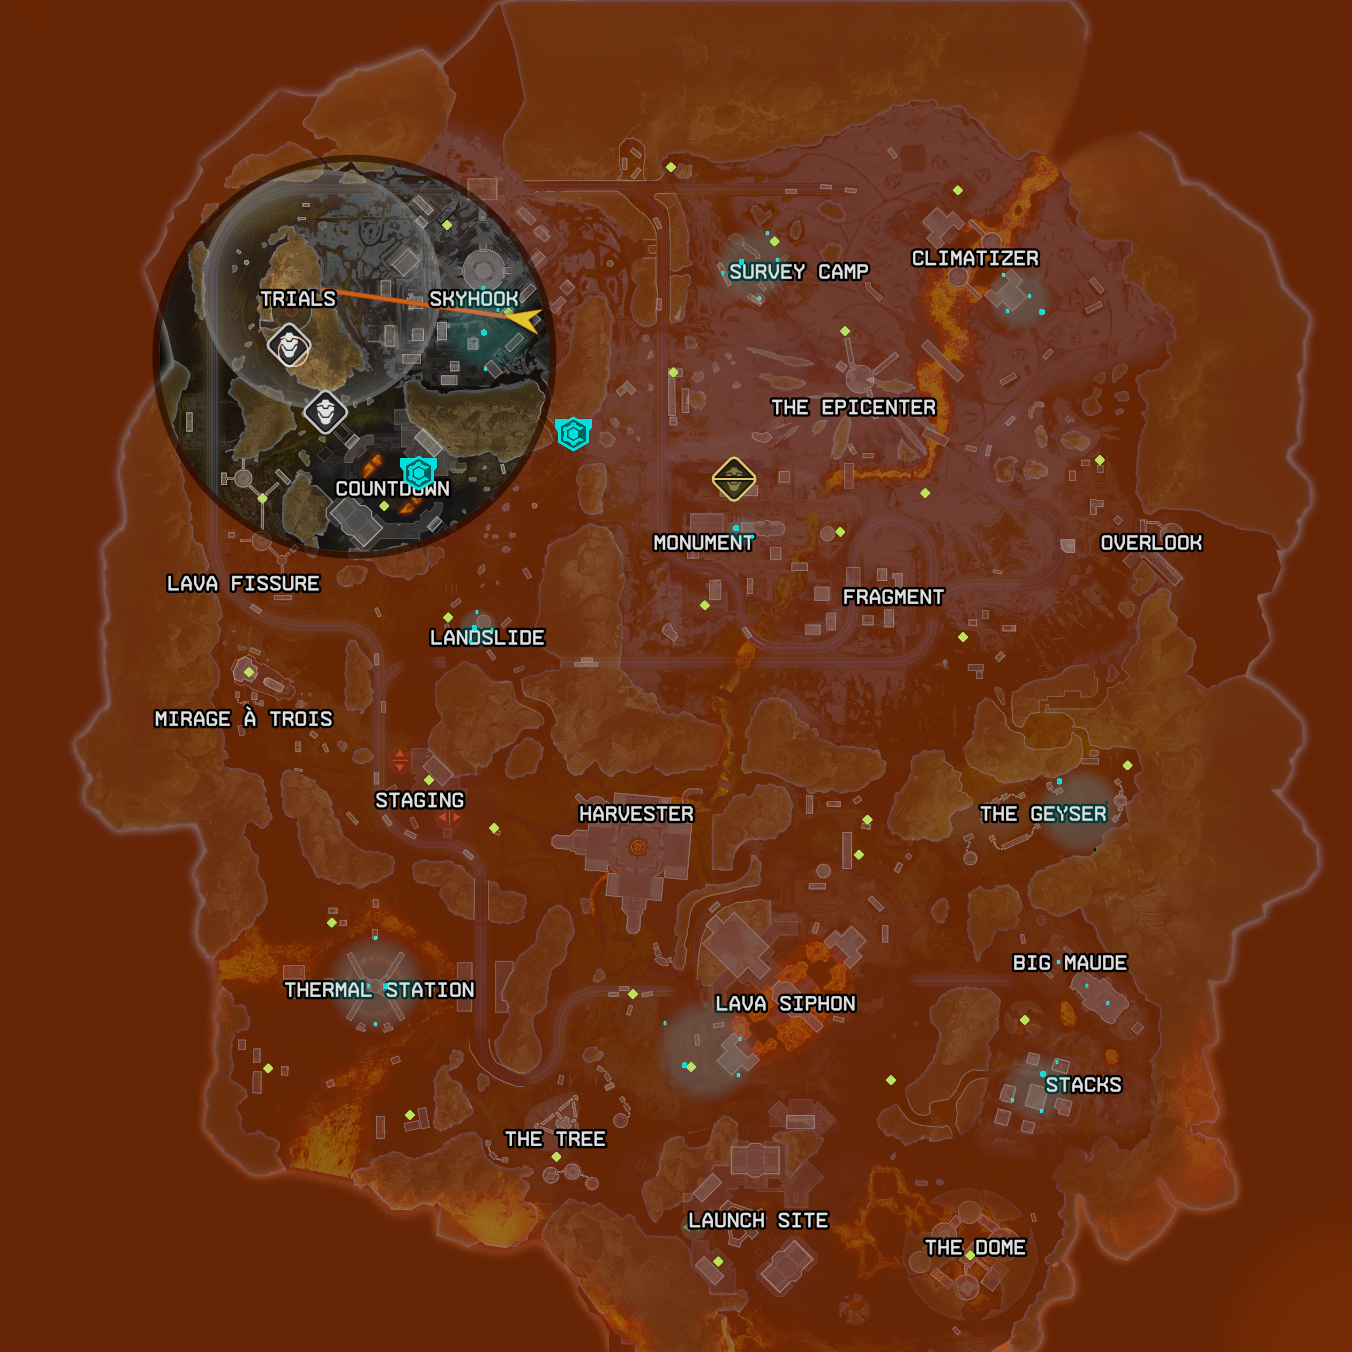
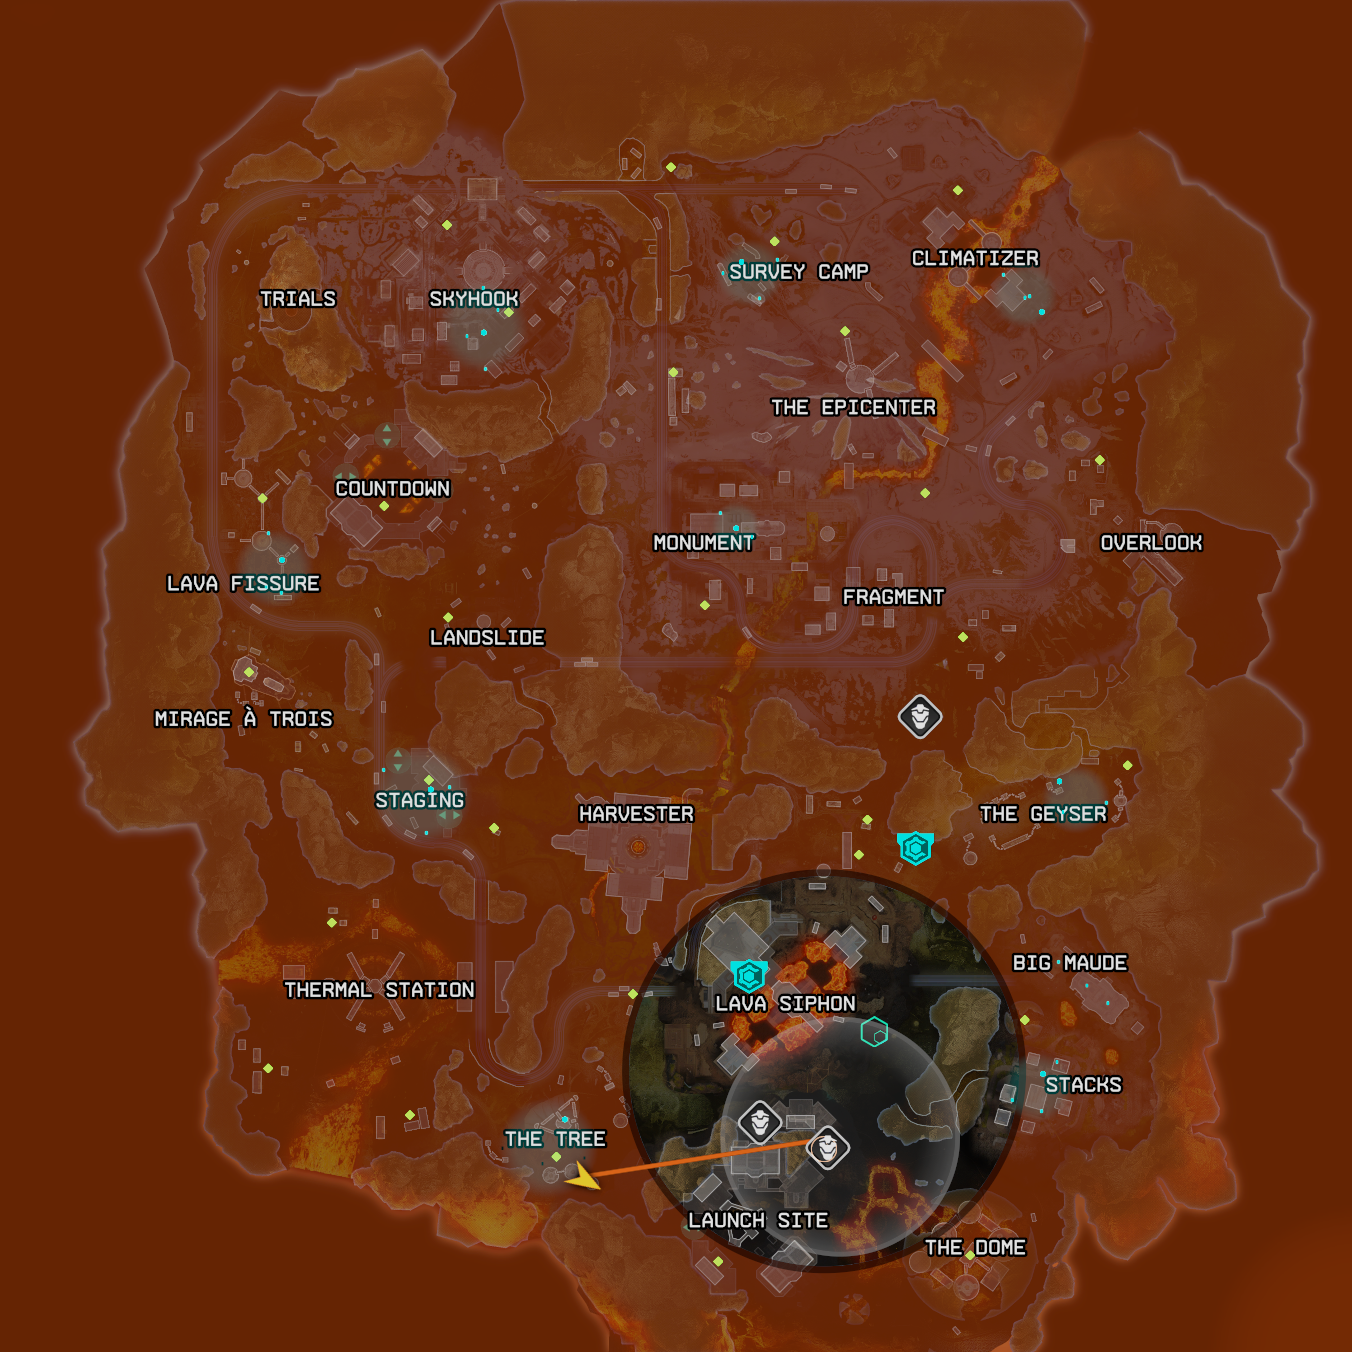
Added more data.

diff --git a/code/Main.cs b/code/Main.cs
@@ -9,7 +9,8 @@ static class MainClass
 
         Console.WriteLine("start");
 
-        //DataSource.CaptureDropData();
+        // DataSource.CaptureDropData();
+        // DataSource.CaptureZoneData();
 
         // Bitmap basemap = DataSource.FormBase();
         // basemap.Save("basemap.png", ImageFormat.Png);
@@ -21,7 +22,7 @@ static class MainClass
 
 
         //Bitmap edgemap = DataSource.FormEdgemap(new Bitmap("ZoneData_0_0.png"), new Bitmap("basemap.png"));
-        List<Point> ringCenters = DataSource.GetRingCenters(0);
+        List<Point> ringCenters = DataSource.GetRingCenters(1);
         int i = 0;
         foreach (Point ringCenter in ringCenters)
         {

diff --git a/code/DataSource.cs b/code/DataSource.cs
@@ -23,7 +23,7 @@ static class DataSource
     private const int iterations = 25;
     
 
-    public static Bitmap CaptureMap()
+    private static Bitmap CaptureMap()
     {
 
         Bitmap bitmap = new Bitmap(mapResolution.Width, mapResolution.Height);
